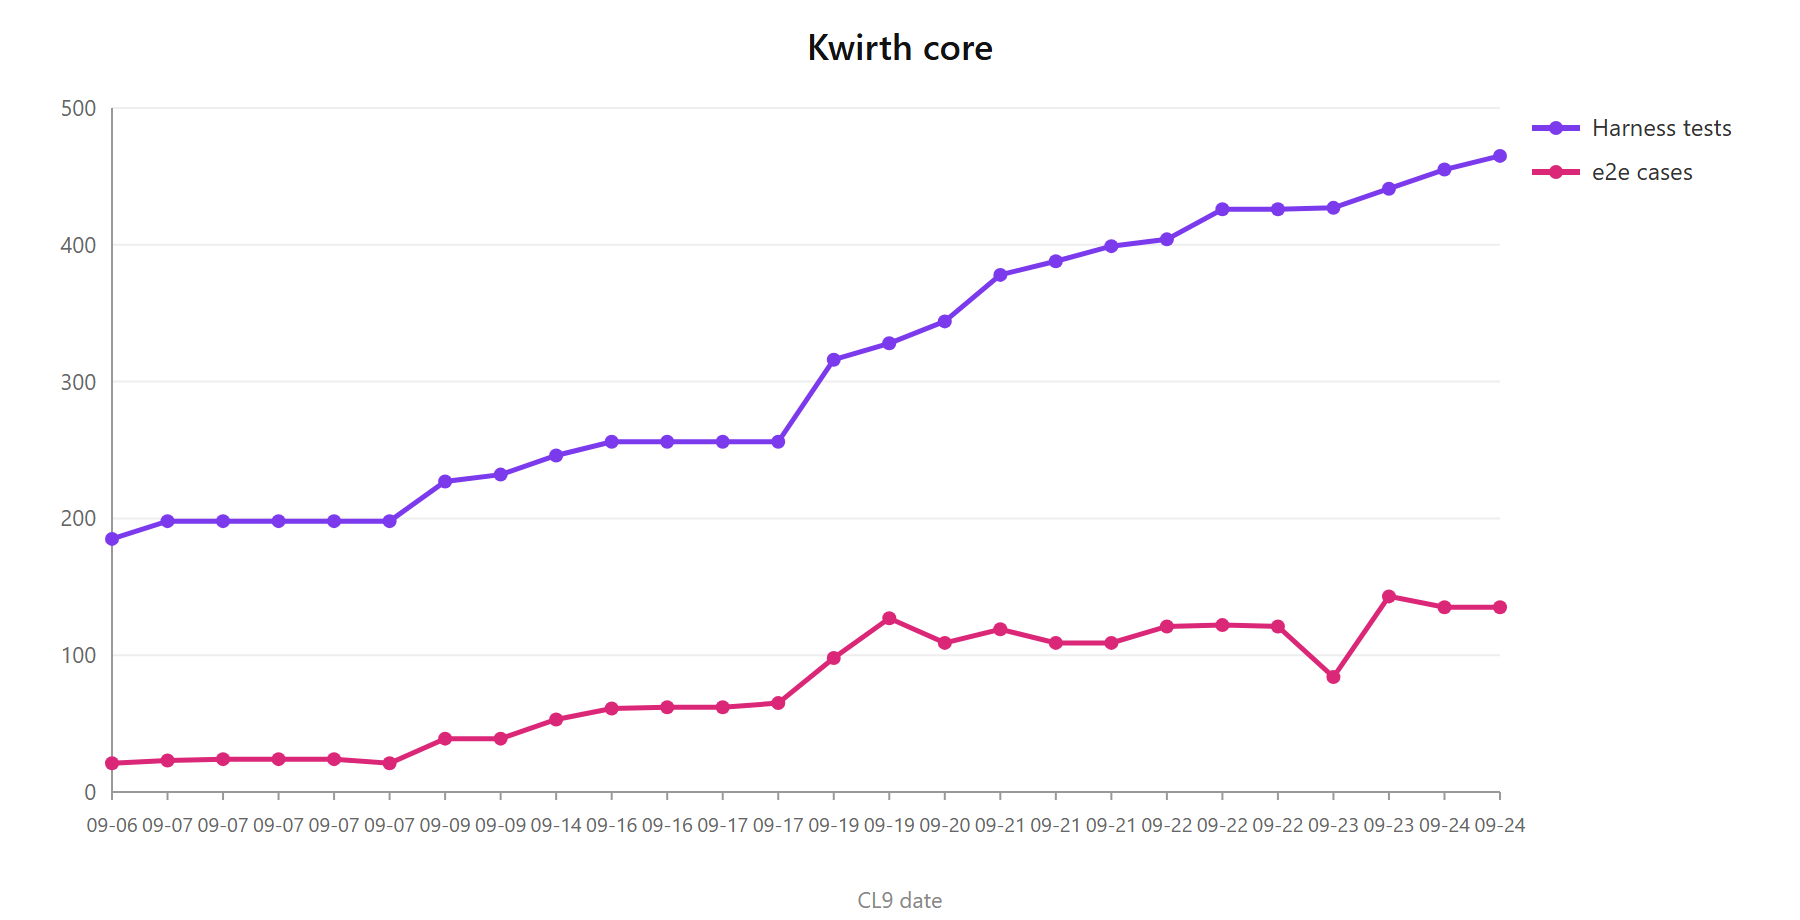
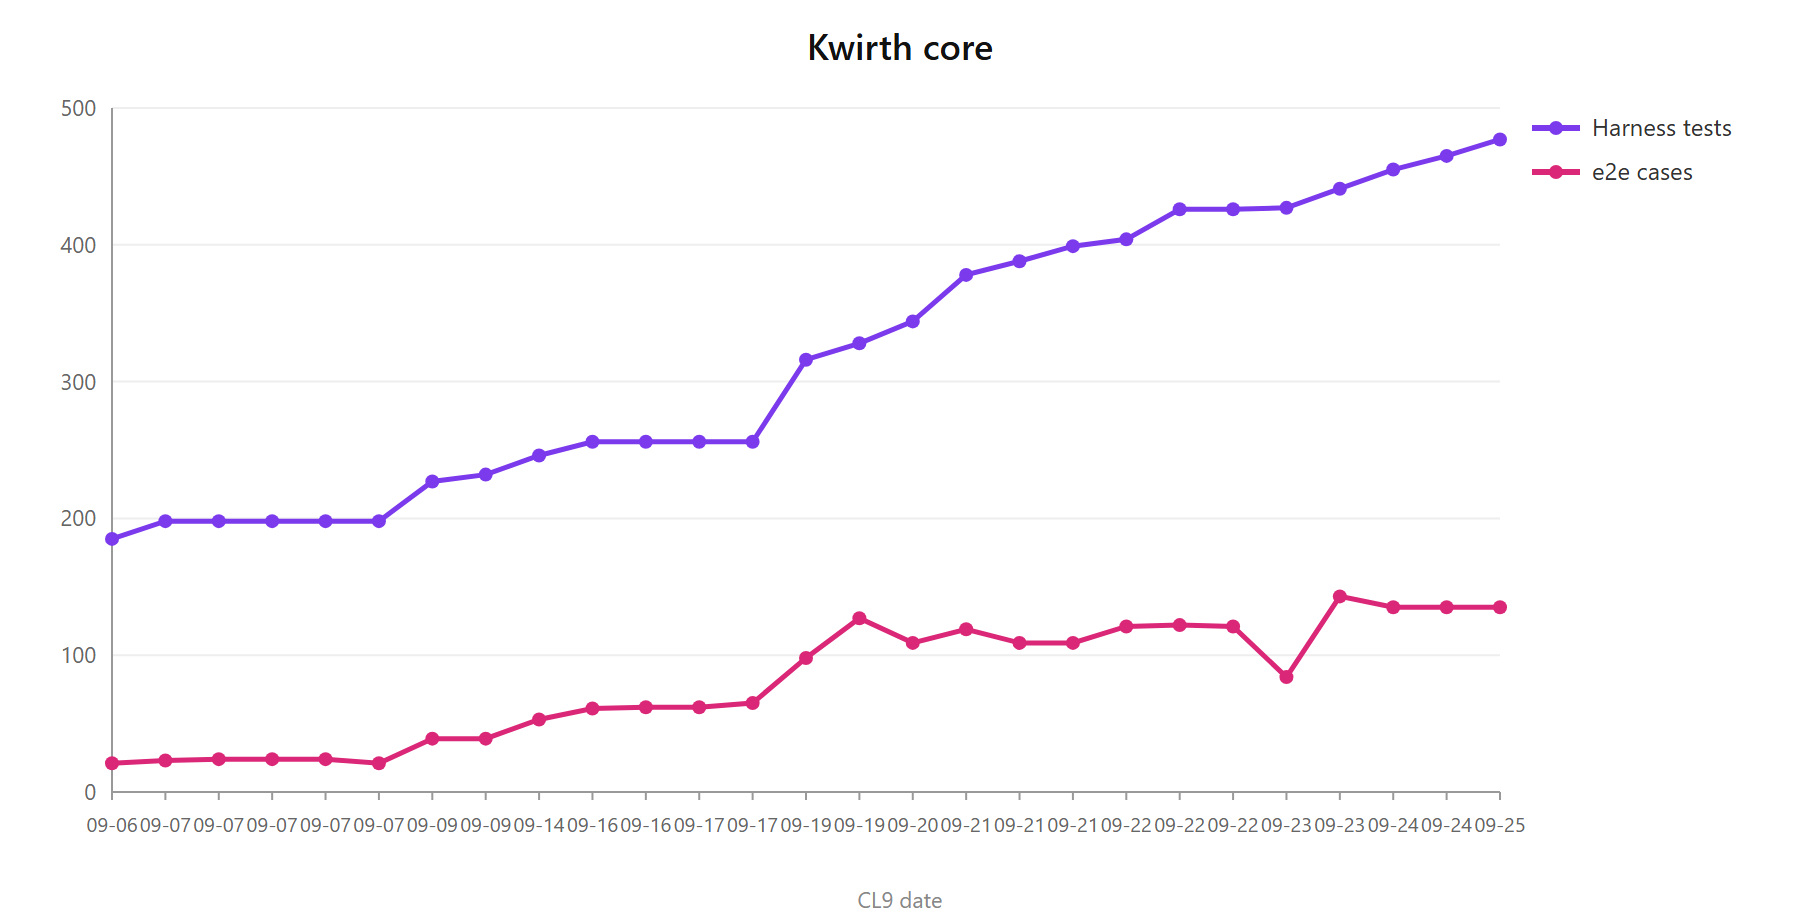
docs(log): el contrato nuevo en la guia, etiquetas a cuatro letras y cierre del stream
Guia: 'Writing to the log' en providers/developing (setLogger, el fallback para
un core antiguo, y como elegir el nivel: error cuando algo NO ocurrio, warning
cuando ocurrio degradado, info el resto) y 'Subscribing once per instance' en
plugins/pluviders, con el handle, la garantia de que no esta en el camino del
dato y por que subscribe() devuelve lo del provider. Tgz regenerado.

Etiquetas de componente a cuatro letras: [prov], [chan] y [stor] junto a [core]
y [auth], para que la columna alinee y el ojo pueda saltarsela — lo que se busca
es el id y el mensaje, no el cajon. Nadie comparaba con los literales.

Plan al dia: H1 hecho (handle + registro por suscriptor + la garantia fijada con
un test), H4 hecho (el logger, que no estaba y se añadio), y H2 REPLANTEADO: el
recuento con el que se escribio caduco en horas porque el usuario migro sugarless
y situs a mano esa mañana, asi que solo quedaban dos que se saltaran el core
(echo y provider-debug). Los diez que ya pasan por el core NO se migran: hoy
funcionan y el registro los ve, asi que costaria diez bbpm a cambio de nada.

Metricas: 477 tests, 82.35/83.72/79.55, con sus dos PNG.

diff --git a/back/src/tools/Logging.ts b/back/src/tools/Logging.ts
@@ -1,9 +1,13 @@
+/*
+    Four letters each, so the tag column lines up and the eye can skip it: what you are looking for is
+    the id and the message, not which bucket the line belongs to.
+*/
 export enum ELogComponent {
     AUTH = 'auth',
     CORE = 'core',
-    PROVIDER = 'provider',
-    CHANNEL = 'channel',
-    STORAGE = 'storage'
+    PROVIDER = 'prov',
+    CHANNEL = 'chan',
+    STORAGE = 'stor'
 }
 
 let ansiLog = true

diff --git a/docs/qa/test-metrics-history.md b/docs/qa/test-metrics-history.md
@@ -38,6 +38,7 @@
 
 | Fecha | Cierre | Harness | Cobertura (líneas / ramas / funcs) | e2e | Notas |
 |---|---|---|---|---|---|
+| 2026-09-25 | Cada línea del log dice quién la escribe | **477** ✅ | **82.35 % / 83.72 % / 79.55 %** | 40 specs · 135 casos ⚠ | **Un `[provider]` o un `[channel]` a secas no identifican a nadie**, y con quince providers corriendo todos escribían bajo la misma etiqueta: no había forma de saber cuál hablaba ni de filtrar el log por el que interesaba. Peor todavía, un **provider no tenía con qué loguear** —a los canales se les presta un `backChannelObject`, a un provider no se le daba nada—, así que lo único que le quedaba era `console.log`: sin hora, sin nivel y sin componente, con **los fallos con la misma pinta que una traza**. Un informer caído de Longhorn y un “provider started” salían idénticos. Ahora hay `componentLogger(component, id)` en el core y un `setLogger?()` **opcional** en el contrato (`common-back` 0.5.52) que el core invoca en `createProviderInstance`, el **único** sitio donde nace un provider. Opcional de verdad: quien no lo implemente sigue escribiendo donde escribía, y no hay versión mínima de core que exigir. Alcanza a los providers del core (metrics 33 líneas, events 13), a los canales `magnify` (44) y `metrics` (32), a las altas y bajas de `ClusterInfo`, a `ProviderApi` y a `Pluvider`; **8 líneas del provider de métricas salían clasificadas como `[core]` o `[channel]` siendo suyas**, y dos logs de magnify estaban en castellano. Los **canales** reciben ahora su propio `backChannelObject` con el id puesto por el core, así que un plugin ya no tiene que inventárselo —y si ya lo escribe, no se duplica—; `logTrace` deja de fijar `CORE`, porque su **única** llamada es la que el core presta a los canales y todo lo que trazaba un plugin aparecía como dicho por el core. **Un evento, una línea**: los bloques del arranque (canales, endpoints, providers registrados, datos del cluster, capacidades) pasan de una cabecera más una línea por elemento a una sola, y un objeto se serializa en una línea en vez de indentado — el volcado del heap ocupaba **quince líneas cada minuto** y ni decía que era el heap. El bloque de métricas duplicadas de cAdvisor baja de nueve líneas por colisión a una, que además dice **qué valor sobrevive**: con un contenedor duplicado salía ~25 veces por lectura, cada quince segundos. Las etiquetas quedan a cuatro letras (`core`/`chan`/`prov`/`auth`/`stor`) para que la columna alinee. **+0 tests** aquí: lo que se añadió en esta tanda son los **+7 del handle** (ver fila anterior); el logging se valida en vivo. ⚠ **e2e**: recuento estático, no se corrió la suite del core — este cambio no tiene e2e allí. **Validado en el dev** por el usuario con los cuatro providers que carga desde disco (fluentbit, longhorn, azure, sugarless): los fallos de Longhorn salen ya como `[WARNING]` y `[ERROR]`. |
 | 2026-09-24 | El registro de quién consume a quién ya no se borra con la primera baja | **465** ✅ | **82.15 % / 83.57 % / 79.53 %** | 40 specs · 135 casos ⚠ | **El grafo de Kwirth Status se vaciaba solo, y no era cosa del plugin: era este registro.** `ClusterInfo` anota las suscripciones que intermedia —es el único sitio donde se sabe **quién** consume, porque un provider solo sabe **cuántos** suscriptores tiene— y deduplicaba las altas: dos suscripciones del mismo canal al mismo provider son **una** arista, que es lo correcto. Pero la baja **no** estaba deduplicada, así que la primera se llevaba la arista por delante aunque quedaran suscripciones vivas; con un canal que se reinstancia, el registro se quedaba a cero mientras los providers seguían entregando. Ahora cada arista guarda **sus suscriptores por identidad de objeto**, que es el mismo criterio con el que el provider los guarda en su `Map` —así el core no puede acabar afirmando algo distinto de lo que el provider cree—, y desaparece cuando se va el último. Retener esas referencias no añade fuga: el provider ya las tiene. El `since` es de la arista y no lo pisa quien llega después, que es lo que permite decir cuánto lleva algo alimentando a alguien; y `getSubscriptions()` sigue devolviendo copia, ahora sin el conjunto de suscriptores. **+10 tests** (`tests/model/subscriptionRegistry`): la baja parcial no borra, la baja de quien nunca se suscribió tampoco, el mismo objeto dos veces cuenta una, y los pluviders se comportan igual por su id compuesto. ⚠ **e2e**: el recuento del core es estático (no se corrió su suite); sí se corrió entera la del plugin que consume esto, **21/21**, incluido el caso que exige que el grafo tenga aristas. ⚠ Queda abierto en `plans/provider-handle/PLAN.md`: mientras el core entregue el `IProvider` real, saltarse este registro seguirá siendo posible y el grafo seguirá siendo incompleto por construcción. |
 | 2026-09-24 | Kwirth arranca sin Kubernetes (S1 de ECS) | **455** ✅ | **81.98 % / 83.29 % / 79.18 %** | 40 specs · 135 casos ⚠ | **Todo camino de arranque presuponía un cluster alcanzable, así que Kwirth no podía correr donde no hay Kubernetes.** `createRunningInstance()` montaba siempre los clientes de Kubernetes y pedía el uid de `kube-system`; sin cluster eso lanzaba, lo tragaba el `catch` y el arranque terminaba **sin instancia** — con el proceso vivo escuchando y devolviendo `503`, que es el peor modo de fallo porque parece arrancado. En **Fargate** ni se llegaba ahí: no existe `/.dockerenv` (es containerd), así que el entorno salía `undetected` y el proceso se cerraba. Ahora el entorno de ejecución se detecta con `ecs` incluido, **se publica** en `KwirthData` en vez de perderse al acabar el switch, y de él se derivan en **un solo sitio** (`ExecutionEnvironment.ts`) las capacidades que el arranque necesita: si hay API de Kubernetes y dónde se persiste. Los clientes de Kubernetes —y el propio `loadFromDefault()`, que también puede quejarse sin kubeconfig— quedan dentro de una **rama explícita**, no de un `catch` más ancho: un `catch` convierte "aquí no hay cluster, y está bien" y "el cluster no responde, y eso es un problema" en el mismo silencio. `/healthz` deja de estar atado a `inCluster`, porque un balanceador que no obtiene respuesta recicla la tarea en bucle sin decir por qué. **Y se retiró Docker como fuente de recursos**: se comprobó con un `docker run` sobre la imagen publicada que esa vía **no estaba viva** (`clusterType: kubernetes`, `FetchError` contra `localhost:8080`, `Cannot get a running instance`) — nadie producía `EClusterType.DOCKER` y nadie asignaba `clusterInfo.dockerTools`. Fuera el enum (`common` 0.5.56), `DockerTools.ts`, `dockerode`, `watchDockerPods()`, 10 ramas entre `index.ts` y `ConfigApi.ts`, 8 usos de `isDocker` en el front —incluido un `if/else` con **las dos ramas idénticas**— y `startDockerStream()` de `log` y `alert`. ⚠ **El enum es un contrato de RUNTIME**: los plugins no empaquetan `kwirth-common`, lo resuelven contra el global del core, así que quitarle un valor deja en `undefined` a todo `dist` ya construido que lo nombre — lo destapó el usuario viendo `[,kubernetes]` en la lista de sources. Por eso hubo que republicar **12 artefactos**: 9 plugins públicos y 3 privados (con sus docs en lockstep). **+14 tests** sobre la detección, las capacidades y el store, con la comprobación de kubeconfig **inyectada** para que no dependan de la máquina donde se corran. ⚠ **La corrida e2e completa NO se hizo**: se aplazó por decisión del usuario para agruparla con otros cambios; el recuento de specs y casos es estático. Sí pasan los 4 casos del spec nuevo `execution-environment`, y el QA manual validó log, el selector de recursos y los nueve canales republicados. |
 | 2026-09-23 | Actualizar una extensión sin desinstalarla | **441** ✅ | **81.73 % / 83.09 % / 78.87 %** | 31 specs · 143 casos | **Subir de versión obligaba a desinstalar primero, y eso se lleva por delante la configuración.** El `install()` de los managers ya reemplazaba por dentro todo lo que hay que reemplazar —índice, código cacheado, módulo del back recargado con `delete require.cache`—: lo único que lo impedía era un guardián copiado nueve veces que rechazaba cualquier id ya instalada. Ahora el permiso es **explícito** (`upgrade` en el POST) y vive en **un solo sitio**, `tools/ExtensionInstallGuard.ts`, que además impide ir hacia atrás: volver a una versión anterior deja el índice diciendo una cosa y la configuración, que no se toca, pensada para otra. **Y lo instalado pasa a ser EXACTAMENTE lo que trae el paquete.** Varias escrituras eran condicionales (`if (meta.frontStored) write(...)`), y saltarse una no deja la clave vacía: la deja con el contenido de la versión ANTERIOR. Un login que deja de traer fondo seguía pintando el de antes; un sender cuyo front deja de caber en el ConfigMap seguía sirviendo el viejo; un provider que retira su esquema seguía enseñando su formulario. Las seis escrituras condicionales pasan a `write(clave, cabe ? valor : null)`, que **borra**. En el front, la acción nueva entra en `ExtensionManagerDialog` —el genérico— así que sale de una vez en los **once tipos y en las dos vistas**, tarjeta y lista; va **entre configurar y la papelera** y está **siempre visible**, deshabilitada con el motivo, porque un botón que aparece y desaparece mueve la papelera al sitio donde estaba el update de la fila de arriba. **Tres casos que el aviso de reinicio no sabía decir**: `ERestartAction.UPDATE` con su propio texto —la extensión no es que no vaya a funcionar, es que sigue funcionando la de ANTES— y se mira `requiresRestart` en **las dos**, la que se va y la que llega, porque el router de la vieja sigue montado aunque la nueva ya no declare ninguno. Un **pack** es el único que no se actualiza en sitio (instalarlo rechaza también si alguno de sus miembros está puesto) y el botón lo dice en vez de ofrecer algo que va a fallar. **+14 tests** (el guardián suelto, y de punta a punta sobre `LoginManager` y `SenderManager`: que el fondo y el front de la versión anterior desaparecen, y que no se borra de más cuando la nueva sí los trae) **+1 spec e2e con 6 casos**, que no pulsa ningún update —actualizar de verdad cambiaría las extensiones del usuario— y fija en una lista los ocho tooltips posibles del botón. ⚠ De paso se arregló un defecto del propio e2e: `extension-catalogs` usaba `isVisible({ timeout })`, que **no espera** por mucho timeout que se le pase, así que los últimos de los once diálogos se preguntaban con la máquina cargada y respondían que no había catálogo cuando lo que faltaba era un pintado. |

diff --git a/plans/provider-handle/PLAN.md b/plans/provider-handle/PLAN.md
@@ -1,7 +1,9 @@
 # Provider handle — lo que el core entrega a un consumidor deja de ser el provider — Plan
 
-> **ESTADO — SIN EMPEZAR** (acordado con el usuario el 2026-09-24; el arranque espera a que termine el
-> refactor en curso del core, `DockerTools` → `ExecutionEnvironment`).
+> **ESTADO — EN PRODUCCIÓN lo esencial** (2026-09-25). El handle existe en el core y está publicado
+> (`common-back` 0.5.52); el logger de providers está cableado y publicado en los 13 que escribían por
+> `console.log`. Queda **H2**, y queda a propósito: ver abajo por qué se decidió NO migrar a los diez
+> consumidores que ya pasan por el core.
 > Plan **append-only**: se marca, no se borra. Si contradice al producto, gana el producto.
 
 ## De dónde sale esto
@@ -54,11 +56,31 @@ de ser vía de suscripción.
 
 - **H1 — el handle en el core.** `getProvider(id)` en `ClusterInfo`, el wrapper, y el registro de
   aristas con **refcount** por handle. Contrato en `kwirth-common-back`.
-- **H2 — migrar los consumidores, uno a uno.** Lo pidió el usuario explícitamente: *"luego revisamos
-  todos los providers y suscriptores para asegurarnos que usan el nuevo interfaz"*. Son sugarless,
-  situs, provider-debug (los tres de la vía directa) y excubitor, agora, iter, montag (los que ya
-  pasan por el core y cambian de API). ⚠ Uno a uno y mirando el código de cada uno: nada de un
-  script global.
+  - ✅ **HECHO el 2026-09-25.** `clusterInfo.getProvider(providerId, consumer)` devuelve un handle atado
+    a las dos puntas; el registro cuenta por **suscriptor** y no por canal, así que un canal con tres
+    pestañas es una arista sostenida por tres suscripciones que se va con la última. Contrato publicado
+    en `common-back` **0.5.52** (`IProviderHandle`), y mientras npm no lo servía el core declaró su
+    propia vista para no bloquearse — cuando se suba la dependencia, esas declaraciones sobran.
+  - ⚠ **La garantía de rendimiento está fijada con un test**: el handle NO envuelve al suscriptor, le
+    pasa al provider el mismo objeto que recibe. Envolverlo para contar entregas sería un closure por
+    evento, para todos, mire alguien o no. Por eso el **caudal por arista sigue fuera**.
+  - `subscribe()` devuelve lo que devuelva el provider: si se lo tragara, un provider que falla al dar
+    de alta dejaría un unhandled rejection y se lleva el core por delante. Lo destapó provider-debug,
+    que es justo quien se encuentra providers ajenos mal escritos.
+- **H2 — migrar los consumidores.** ⏸ **REPLANTEADO el 2026-09-25, y solo se hizo la mitad que valía
+  la pena.** El recuento con el que se escribió este plan caducó en unas horas: el usuario migró
+  **sugarless y situs a mano** esa misma mañana (`fix(sugarless): una suscripcion del canal, A TRAVES
+  DEL CORE`), así que de los tres que se saltaban el core quedaba uno.
+  - ✅ Migrados los dos que seguían por fuera: **`echo`** y **`provider-debug`**. El segundo conserva su
+    suscriptor por pestaña —para eso existe— y ahora además aparece en el grafo, así que el bypass deja
+    de tener motivo.
+  - ⛔ **NO se migran los diez que ya pasan por el core** (agora, alert, excubitor, iter, pinocchio,
+    situs, status, sugarless, topology, trivy): hoy funcionan y el registro ya los ve, así que cambiarlos
+    costaría diez bbpm a cambio de nada inmediato. Cada uno pasa al handle **cuando se toque por otra
+    razón**. Lo que el handle aporta ahí es futuro —cerrar la puerta, la baja por suscriptor, la
+    suscripción por instancia—, no una avería viva.
+  - ⚠ Mientras tanto, la puerta sigue abierta: `clusterInfo.providers` continúa entregando el objeto
+    real, así que saltarse el core sigue siendo posible para quien no use el handle.
 - **H3 — Kwirth Status.** Recalibrar la salud con el dato ya correcto y, mientras queden consumidores
   sin migrar, decir en pantalla cuándo `subscribers > knownConsumers` en vez de dar el grafo por
   completo.
@@ -70,6 +92,16 @@ de ser vía de suscripción.
   - ⏳ Queda lo primero: la salud del provider, que depende de arreglar `started` (abajo).
 
 ## Backlog — averías abiertas que salen de aquí
+
+- ✅ **HECHO el 2026-09-25 — el logger de providers (H4, no estaba en este plan y se añadió aquí).** Un
+  provider no tenía con qué escribir en el log: a los canales se les presta un `backChannelObject`, a
+  un provider no se le daba nada, así que sólo le quedaba `console.log` — sin hora, sin nivel y sin
+  componente, con **los fallos indistinguibles de una traza**. `setLogger?()` opcional en el contrato,
+  inyectado por el core en `createProviderInstance`, y **117 líneas reclasificadas a mano** en 13
+  providers: error cuando algo no ocurrió, warning cuando ocurrió degradado (una cuota sin uso, un CRD
+  ausente), info el resto. `longhorn` y `trivy` escribían `[longhorn-provider]` y `[trivy-provider]`,
+  que no son sus ids. Publicados los 13 + `common-back` 0.5.52 + `echo` y `provider-debug`.
+
 
 - 🔴 **`provider.started` no significa "arrancado", significa "tiene el router montado".** Solo se
   asigna en los dos sitios que montan el router (`back/src/index.ts` ~1369 y ~1562); los tres que de

diff --git a/docs/0.6.31/providers/developing.md b/docs/0.6.31/providers/developing.md
@@ -162,6 +162,39 @@ getConfigNames = (): string[] => [...this.configs.keys()]
 Names only, never values — it travels in the public provider listing. Like `getSubscriptionHelp()`, it is
 optional and read defensively: not implementing it just means no counter.
 
+## Writing to the log
+
+Implement `setLogger()` and the core hands you a logger as soon as it builds your provider. It already
+knows your id, so you write the message and nothing else:
+
+```typescript
+setLogger = (logger: IProviderLogger): void => { this.log = logger }
+```
+
+```
+[12:21:07] [provider] [ERROR] [longhorn] informer error (engines): HTTP-Code: 404
+```
+
+It is optional and read defensively, like everything else here: keep a fallback that writes to the
+console and your provider still works on an older core, with no minimum version to demand.
+
+```typescript
+private log: IProviderLogger = {
+    info: (message: unknown) => console.log(`[${PROVIDER_ID}] ${message}`),
+    warning: (message: unknown) => console.warn(`[${PROVIDER_ID}] ${message}`),
+    error: (message: unknown) => console.error(`[${PROVIDER_ID}] ${message}`)
+}
+```
+
+**Use `console.log` for nothing else.** It comes out with no timestamp, no level and no component, so
+it cannot be filtered and, worse, a failure ends up looking exactly like a routine trace — which is
+precisely how an unreachable API or a dead informer goes unnoticed for weeks. Choose the level on
+purpose: `error` when something did not happen, `warning` when it happened but degraded (a quota with
+no usage, a CRD that is not there), `info` for the rest.
+
+If some of your traces come from plain functions rather than from the class, keep a module-level
+logger and have `setLogger()` replace that one too, instead of importing the provider from them.
+
 ## Deprecated: core-managed configuration
 
 Older providers received their configuration through `configure(config)`, fed by the core from a ConfigMap

diff --git a/plans/README.md b/plans/README.md
@@ -31,7 +31,7 @@ meses después — que es exactamente lo que pasaba antes de escribir este índi
 | [ecs](ecs/PLAN.md) · [PRD](ecs/PRD.md) | desplegar Kwirth en AWS ECS (Fargate y EC2) con la misma imagen | **S1 hecho**: el core ya arranca sin Kubernetes, y de paso se retiró Docker como fuente de recursos (12 artefactos republicados). Quedan S2 (qué se observa), S3 (el proyecto `ecs/` con los ejemplos) y S4 (documentación). Pendientes del cierre: publicar el back y una corrida e2e completa |
 | [config-portability](config-portability/PLAN.md) · [PRD](config-portability/PRD.md) | llevarse la configuración de un Kwirth a otro | core, front y las open source con configuración, hechos; quedan Excubitor y Agora, que son la prueba de fuego |
 | [previous-container-log](previous-container-log/PLAN.md) | ver en el About el log del contenedor anterior cuando el core reinicia | en producción; solo queda el S2 (el ajuste en los settings, que arrastra publicar `kwirth-common`) |
-| [provider-handle](provider-handle/PLAN.md) | lo que el core entrega a un consumidor deja de ser el `IProvider` real: un handle por (canal, instancia) | el handle, sin empezar. De su backlog ya se arregló lo que dejaba el grafo inservible (el registro borraba la arista con la primera baja) y el aviso de Status; sigue abierto que `started` significa "router montado" y no "arrancado" |
+| [provider-handle](provider-handle/PLAN.md) | lo que el core entrega a un consumidor deja de ser el `IProvider` real: un handle por (canal, instancia) | **en producción lo esencial**: el handle está en el core y el logger de providers cableado y publicado en los 13. Queda H2 a propósito —los diez consumidores que ya pasan por el core se migran cuando se toquen— y, abierto, que `started` significa "router montado" y no "arrancado" |
 
 ## Cerrados
 

diff --git a/docs/0.6.31/plugins/pluviders.md b/docs/0.6.31/plugins/pluviders.md
@@ -106,6 +106,33 @@ processProviderEvent = (providerId: string, obj: any): void => {
 }
 ```
 
+### Subscribing once per instance: the handle
+
+`addSubscriber` subscribes **the channel**, and a channel is one object no matter how many tabs it is
+serving. When you need a subscription **per instance** — one that can be paused, filtered or dropped on
+its own — ask the core for a handle instead:
+
+```ts
+const producer = this.clusterInfo.getProvider('events', this)   // undefined if it is not here
+producer?.subscribe(subscriber, { kinds: ['Pod'], syncInstances: false })
+...
+producer?.unsubscribe(subscriber)
+```
+
+The handle arrives already bound to both ends — the producer and your channel — so the core knows who
+consumes what without you telling it, and your channel shows up in the Kwirth Status graph. Before this
+existed, a channel that needed one subscription per tab had to reach for the provider object and call it
+directly, which works but leaves the core blind.
+
+It is **not** in the path of the data: the producer is handed the very same subscriber you pass, so events
+travel straight to you, with nothing extra per event. And `subscribe` returns whatever the producer
+returned — usually a promise — so a provider that fails while taking your subscriber on board can be
+caught instead of becoming an unhandled rejection:
+
+```ts
+Promise.resolve(producer.subscribe(subscriber, data)).catch(err => { /* tell the user */ })
+```
+
 ### The dependency is soft
 
 If the producing plugin is not installed, or is not hosted by this kwirth, **the consumer still starts and still works**. The core logs a warning and moves on — it never fails the channel:
